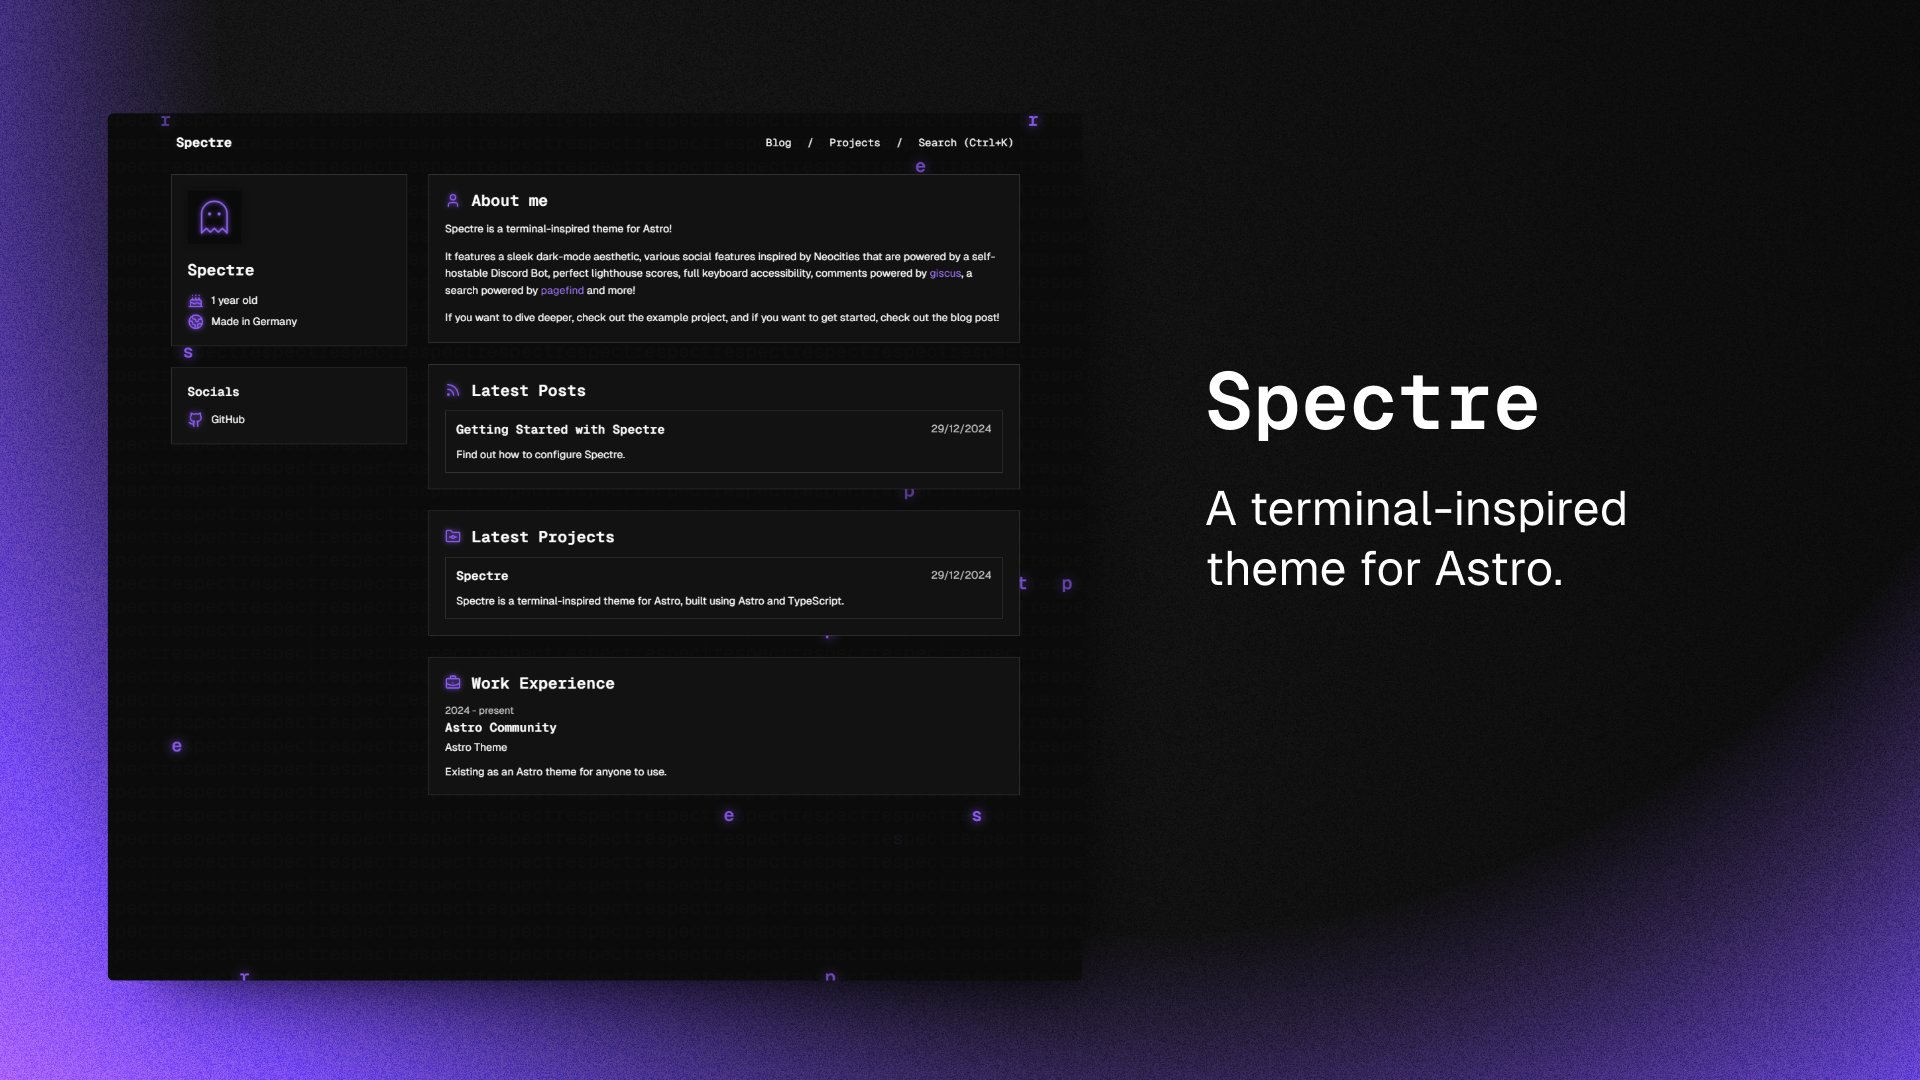
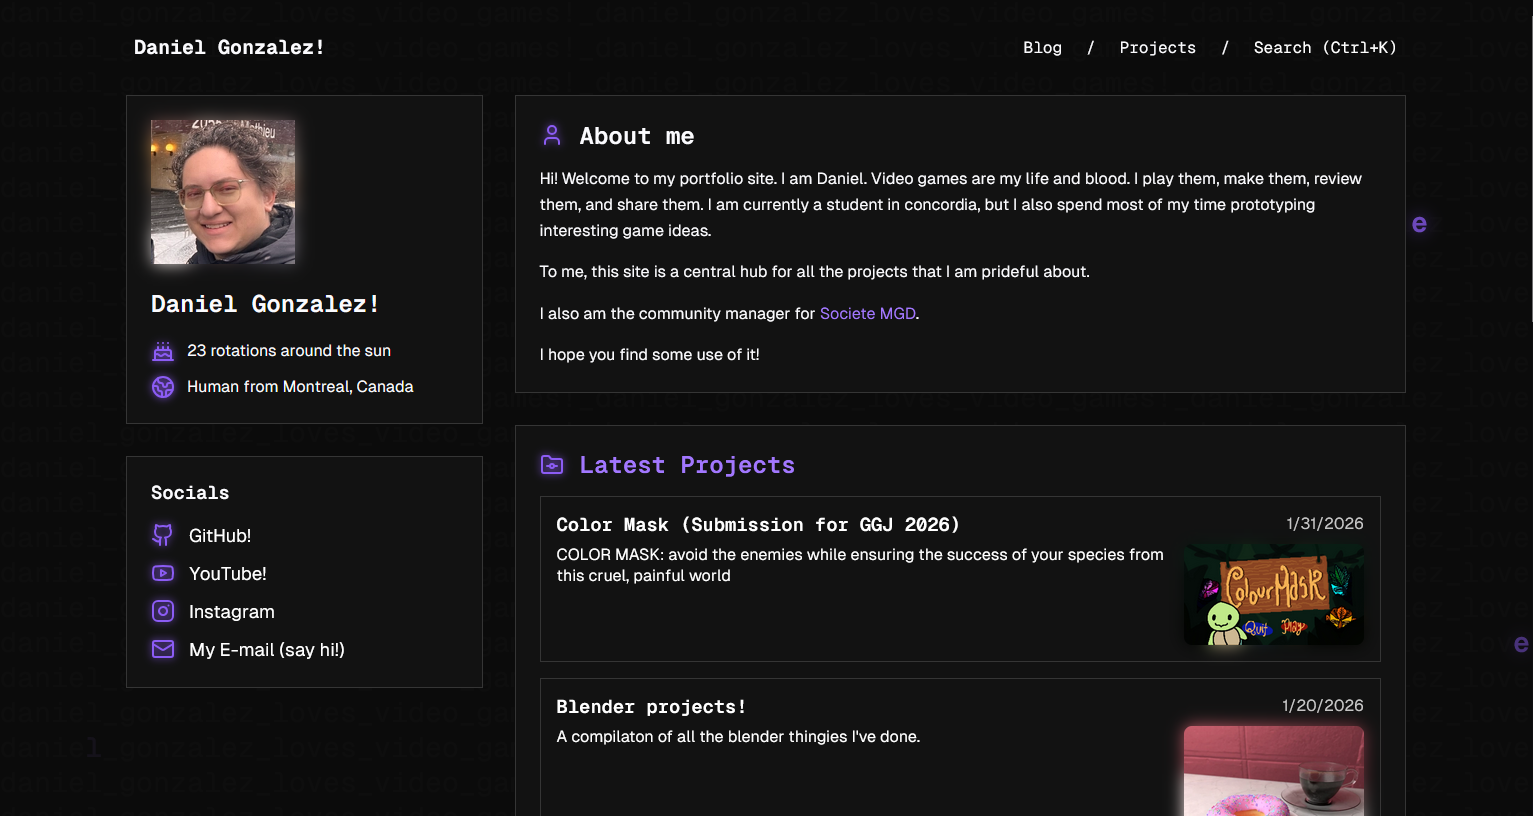
more polish
changed readme image lets see if that changes the thimbnail

diff --git a/astro.config.ts b/astro.config.ts
@@ -21,11 +21,11 @@ const config = defineConfig({
 			openGraph: {
 				home: {
 					title: "Daniel Gonzalez loves video games!",
-					description: 'A minimalistic theme for Astro.',
+					description: 'Check my stuff out :-)',
 				},
 				blog: {
 					title: 'Blog',
-					description: 'News and guides for Spectre.',
+					description: '',
 				},
 				projects: {
 					title: 'Projects',
